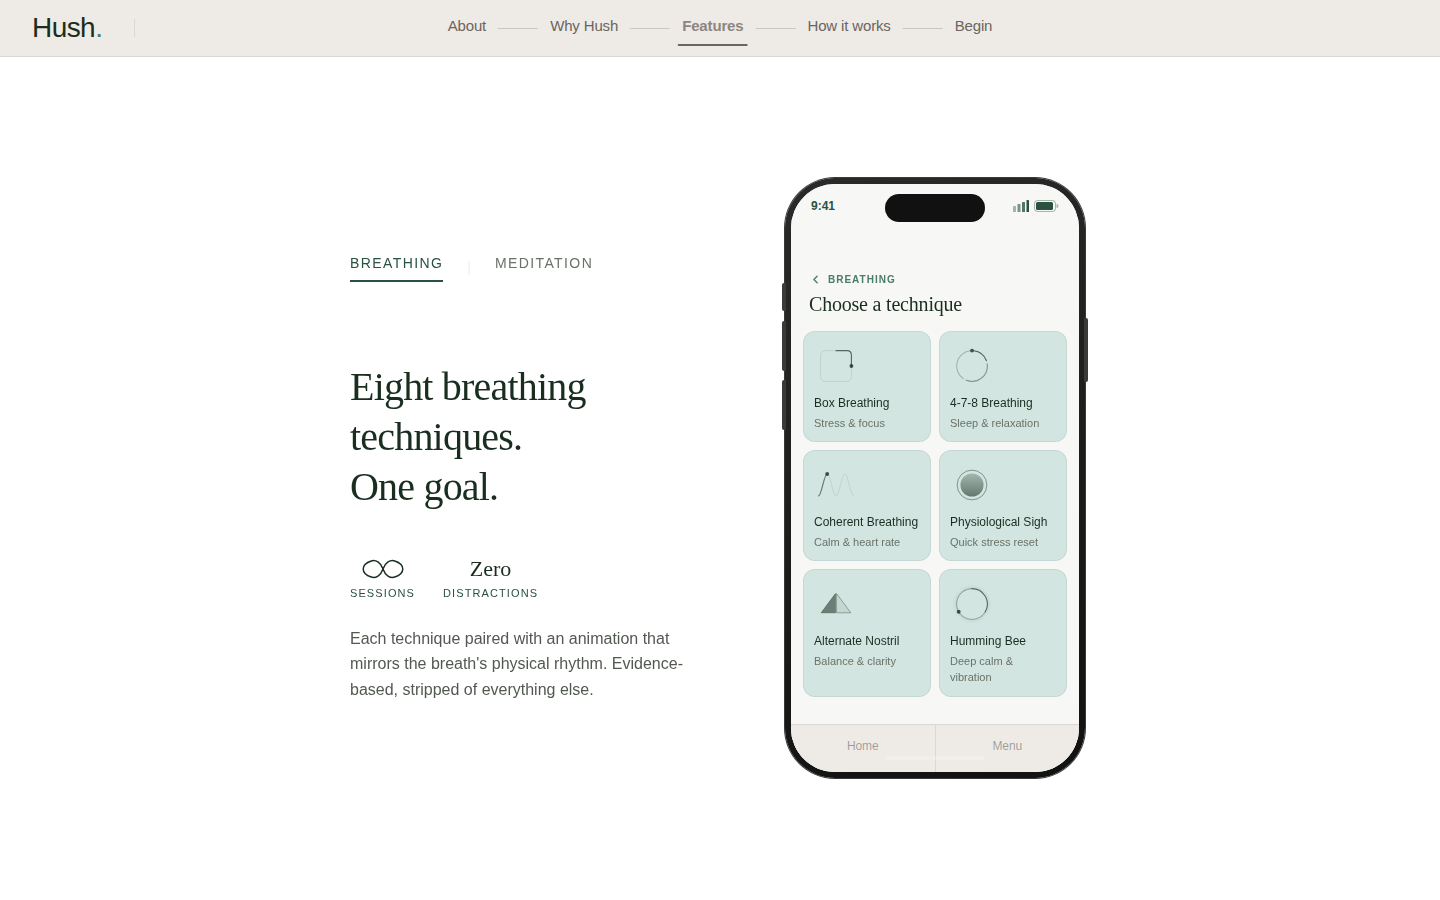
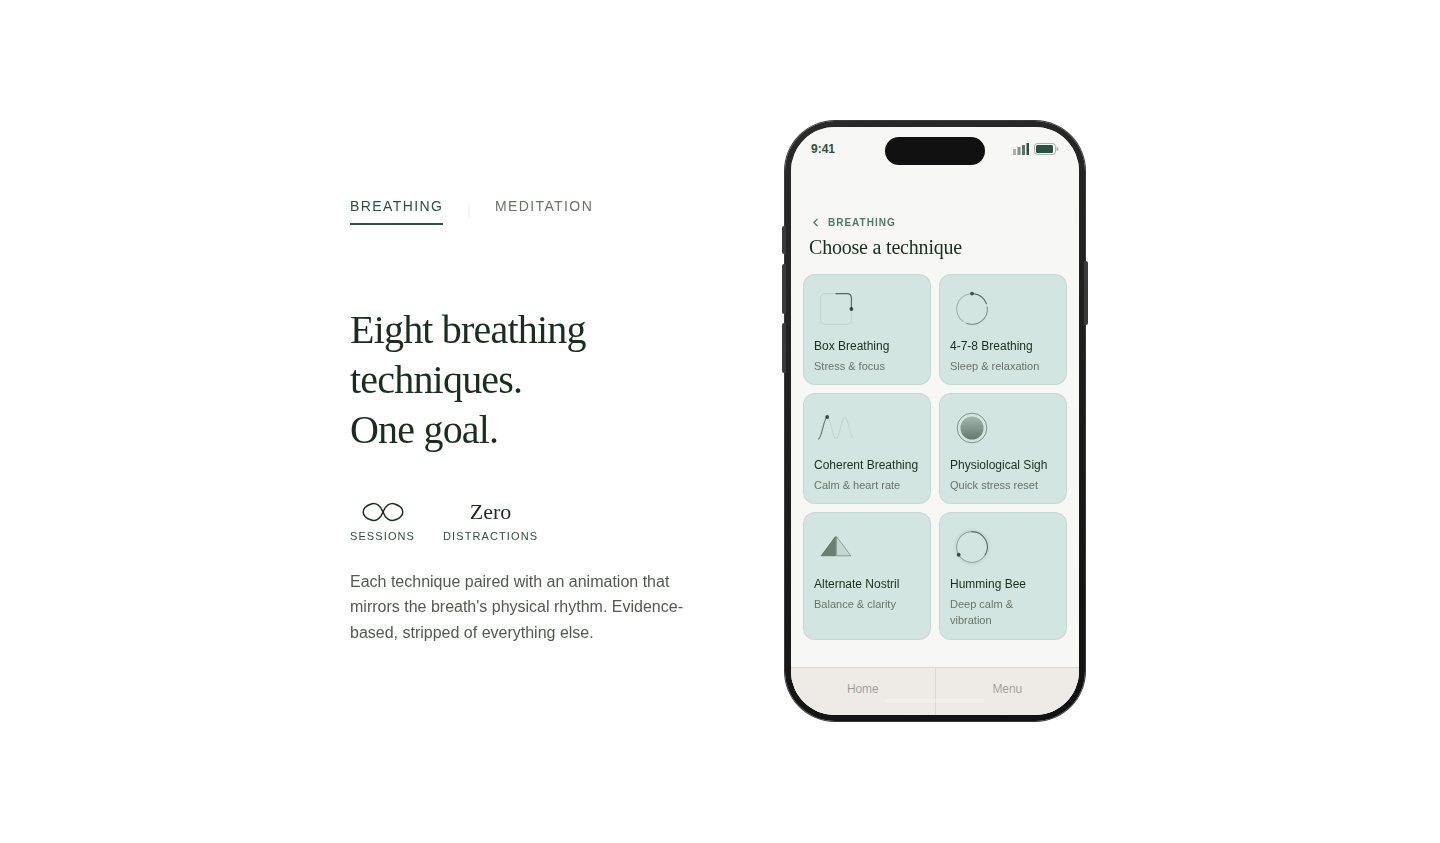
Fix broken image: use Breathing-Screenshot.png with nav bar cropped
Correct filename was Breathing-Screenshot.png not Screenshot-Breathing.png.
Crops top nav bar (y=57) from the image.

https://claude.ai/code/session_019xYe8St2x6ji9MUTsmGBAK

diff --git a/personal-projects.html b/personal-projects.html
@@ -531,7 +531,7 @@
                         <p>Every morning, the road offers the same education. Horns without reason. Vehicles threading gaps that don't exist. A kind of ambient aggression that nobody seems to notice anymore, because it's just the texture of the day. It struck me at some point that nobody stops. Not physically, not mentally. There's a pressure baked into ordinary life here that most people have simply accepted as normal.</p>
                         <p>I didn't want to accept it.</p>
                         <div style="border:1px solid #e0e0e0;border-radius:8px;overflow:hidden;margin:1.5rem 0;">
-                            <img src="Images/Screenshot-Breathing.png" alt="Hush app screenshot" style="width:100%;display:block;">
+                            <img src="Images/Breathing-Screenshot.png" alt="Hush app screenshot" style="width:100%;display:block;">
                         </div>
                         <p>I'd been experimenting with AI in my work as a product manager, curious about what becomes possible when you remove friction from thinking. So when this idea surfaced, building something to address it felt natural. Not as a side project in the traditional sense. More as a question I wanted to answer: could I build something real, by myself, that might actually help?</p>
                         <p>Hush started from a simple premise. People are overwhelmed. They don't breathe. And most wellness apps make that problem worse. Noisy, gamified, full of nudges designed to keep you inside them longer. I wanted the opposite. A space defined by what it leaves out.</p>
